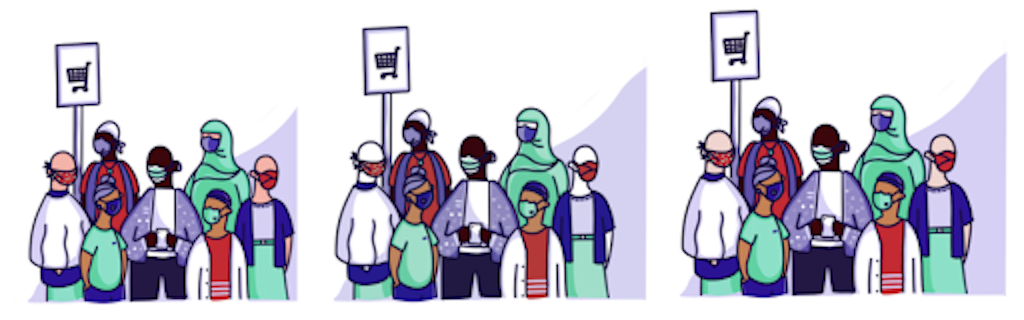
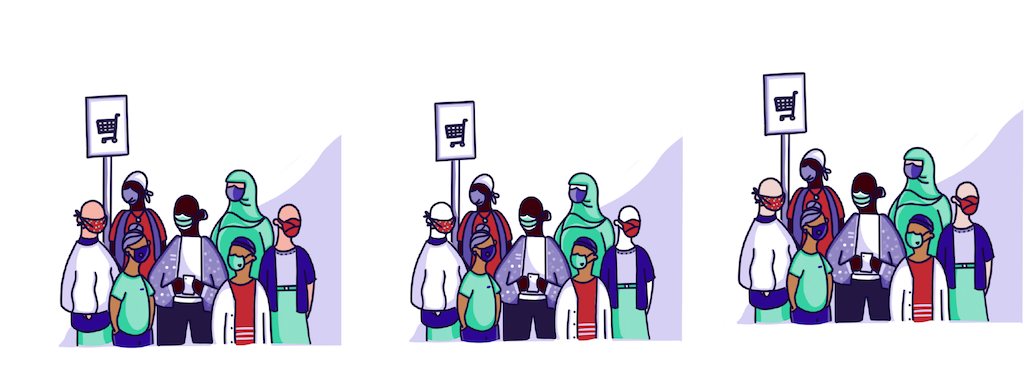
image fixes - sam's blog

diff --git a/assets/sass/cds/_sections.scss b/assets/sass/cds/_sections.scss
@@ -1128,13 +1128,14 @@ span.livefr {
 }
 
 article.post {
-  // padding: 6rem 0;
+  padding: 6rem 0;
 
   @include mobile_only {
     // padding: 3rem 0;
   }
 
   img {
+    max-width: 100%;
     display: block;
     margin-right: auto;
     margin-left: auto;

diff --git a/content/fr/blog/posts/illustrer-la-diversité-et-l’inclusion-pour-l’application-alerte-covid.md b/content/fr/blog/posts/illustrer-la-diversité-et-l’inclusion-pour-l’application-alerte-covid.md
@@ -65,7 +65,7 @@ Bon nombre d’illustrations créées à l’aide d’une palette réduite pigme
 
 J’ai donc décidé de ne pas pigmenter les personnages à la peau pâle dans l’application, **afin d’attribuer un contraste et un ton égaux à tous les personnages**. Dans les illustrations tests ci-dessous, vous pouvez voir la différence qu’engendre ce petit choix de conception, où je cherche à représenter de façon plus égalitaire les personnages ayant des teints différents. On aboutit donc à des images plus inclusives.
 
-![Trois illustrations côte à côte. La première montre un groupe de personnes portant un masque, les personnes à la peau pâle ayant une pigmentation. La deuxième illustration montre la même chose, mais les personnes à la peau pâle n’ont aucune pigmentation. La troisième illustration montre les personnes à la peau pâle avec une pigmentation teintée de jaune.](/img/cds/covid-alert-illustration3.jpg)
+![Trois illustrations côte à côte. La première montre un groupe de personnes portant un masque, les personnes à la peau pâle ayant une pigmentation. La deuxième illustration montre la même chose, mais les personnes à la peau pâle n’ont aucune pigmentation. La troisième illustration montre les personnes à la peau pâle avec une pigmentation teintée de jaune.](/img/cds/covid-alert-illustration3.png)
 
 ***Rappel : C’est possible de montrer la diversité ailleurs que dans les cheveux et le teint.***
 

diff --git a/content/en/blog/posts/illustrating-with-diversity-and-inclusion-for-the-covid-alert-app.md b/content/en/blog/posts/illustrating-with-diversity-and-inclusion-for-the-covid-alert-app.md
@@ -66,7 +66,7 @@ A lot of illustrations of people with minimal colour palettes pigment those with
 
 I decided not to give lighter skin characters in the app pigmentation in order to give **equal contrast and tone to all characters** featured on a screen. In the following examples of side by side tests, you can see the difference that a small design choice makes in allowing characters with different skin tones to be seen and represented more equally, resulting in a more inclusive design. 
 
-![Three images side by side. The first image is an illustration of a group of people standing together with masks on, where light-skinned pink toned characters are given pigmentation. The second image is the same illustration, but with light-skinned characters without pigmentation. The third is illustration with light-skinned characters with yellow toned pigmentation.](/img/cds/covid-alert-illustration3.jpg)
+![Three images side by side. The first image is an illustration of a group of people standing together with masks on, where light-skinned pink toned characters are given pigmentation. The second image is the same illustration, but with light-skinned characters without pigmentation. The third is illustration with light-skinned characters with yellow toned pigmentation.](/img/cds/covid-alert-illustration3.png)
 
 ***Reminder: You can show diversity beyond colour and hair.*** 
 
